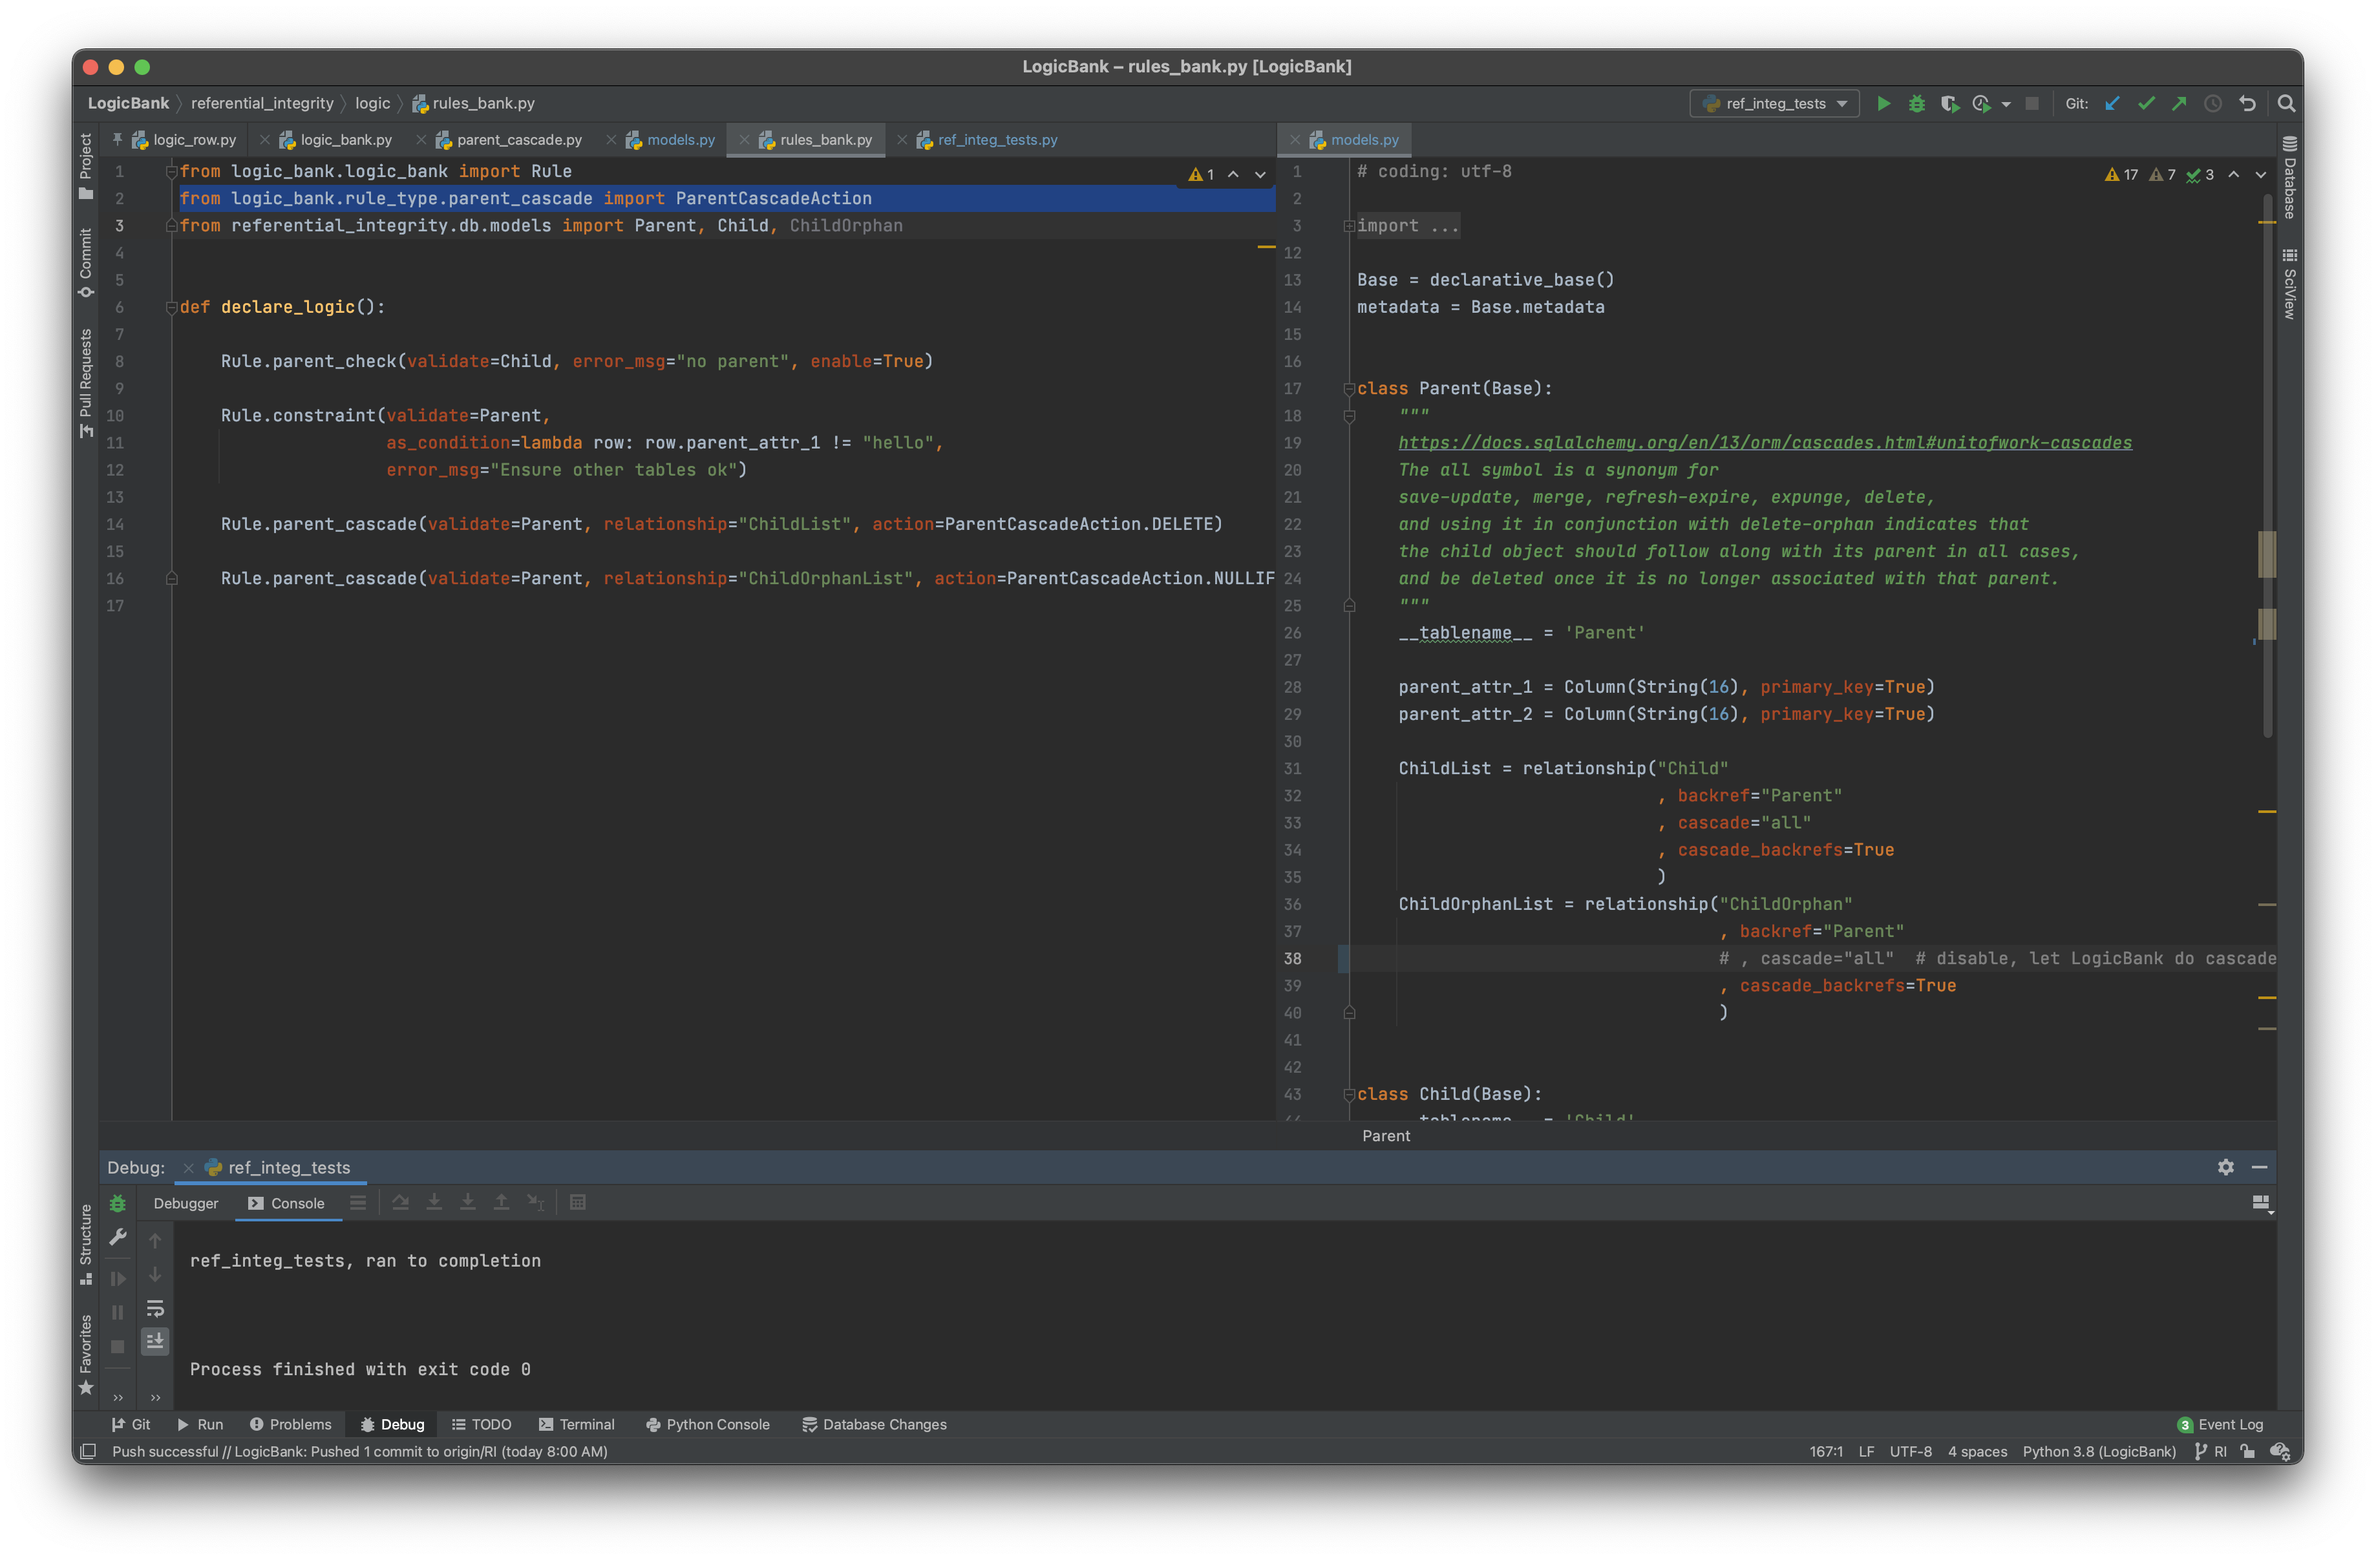
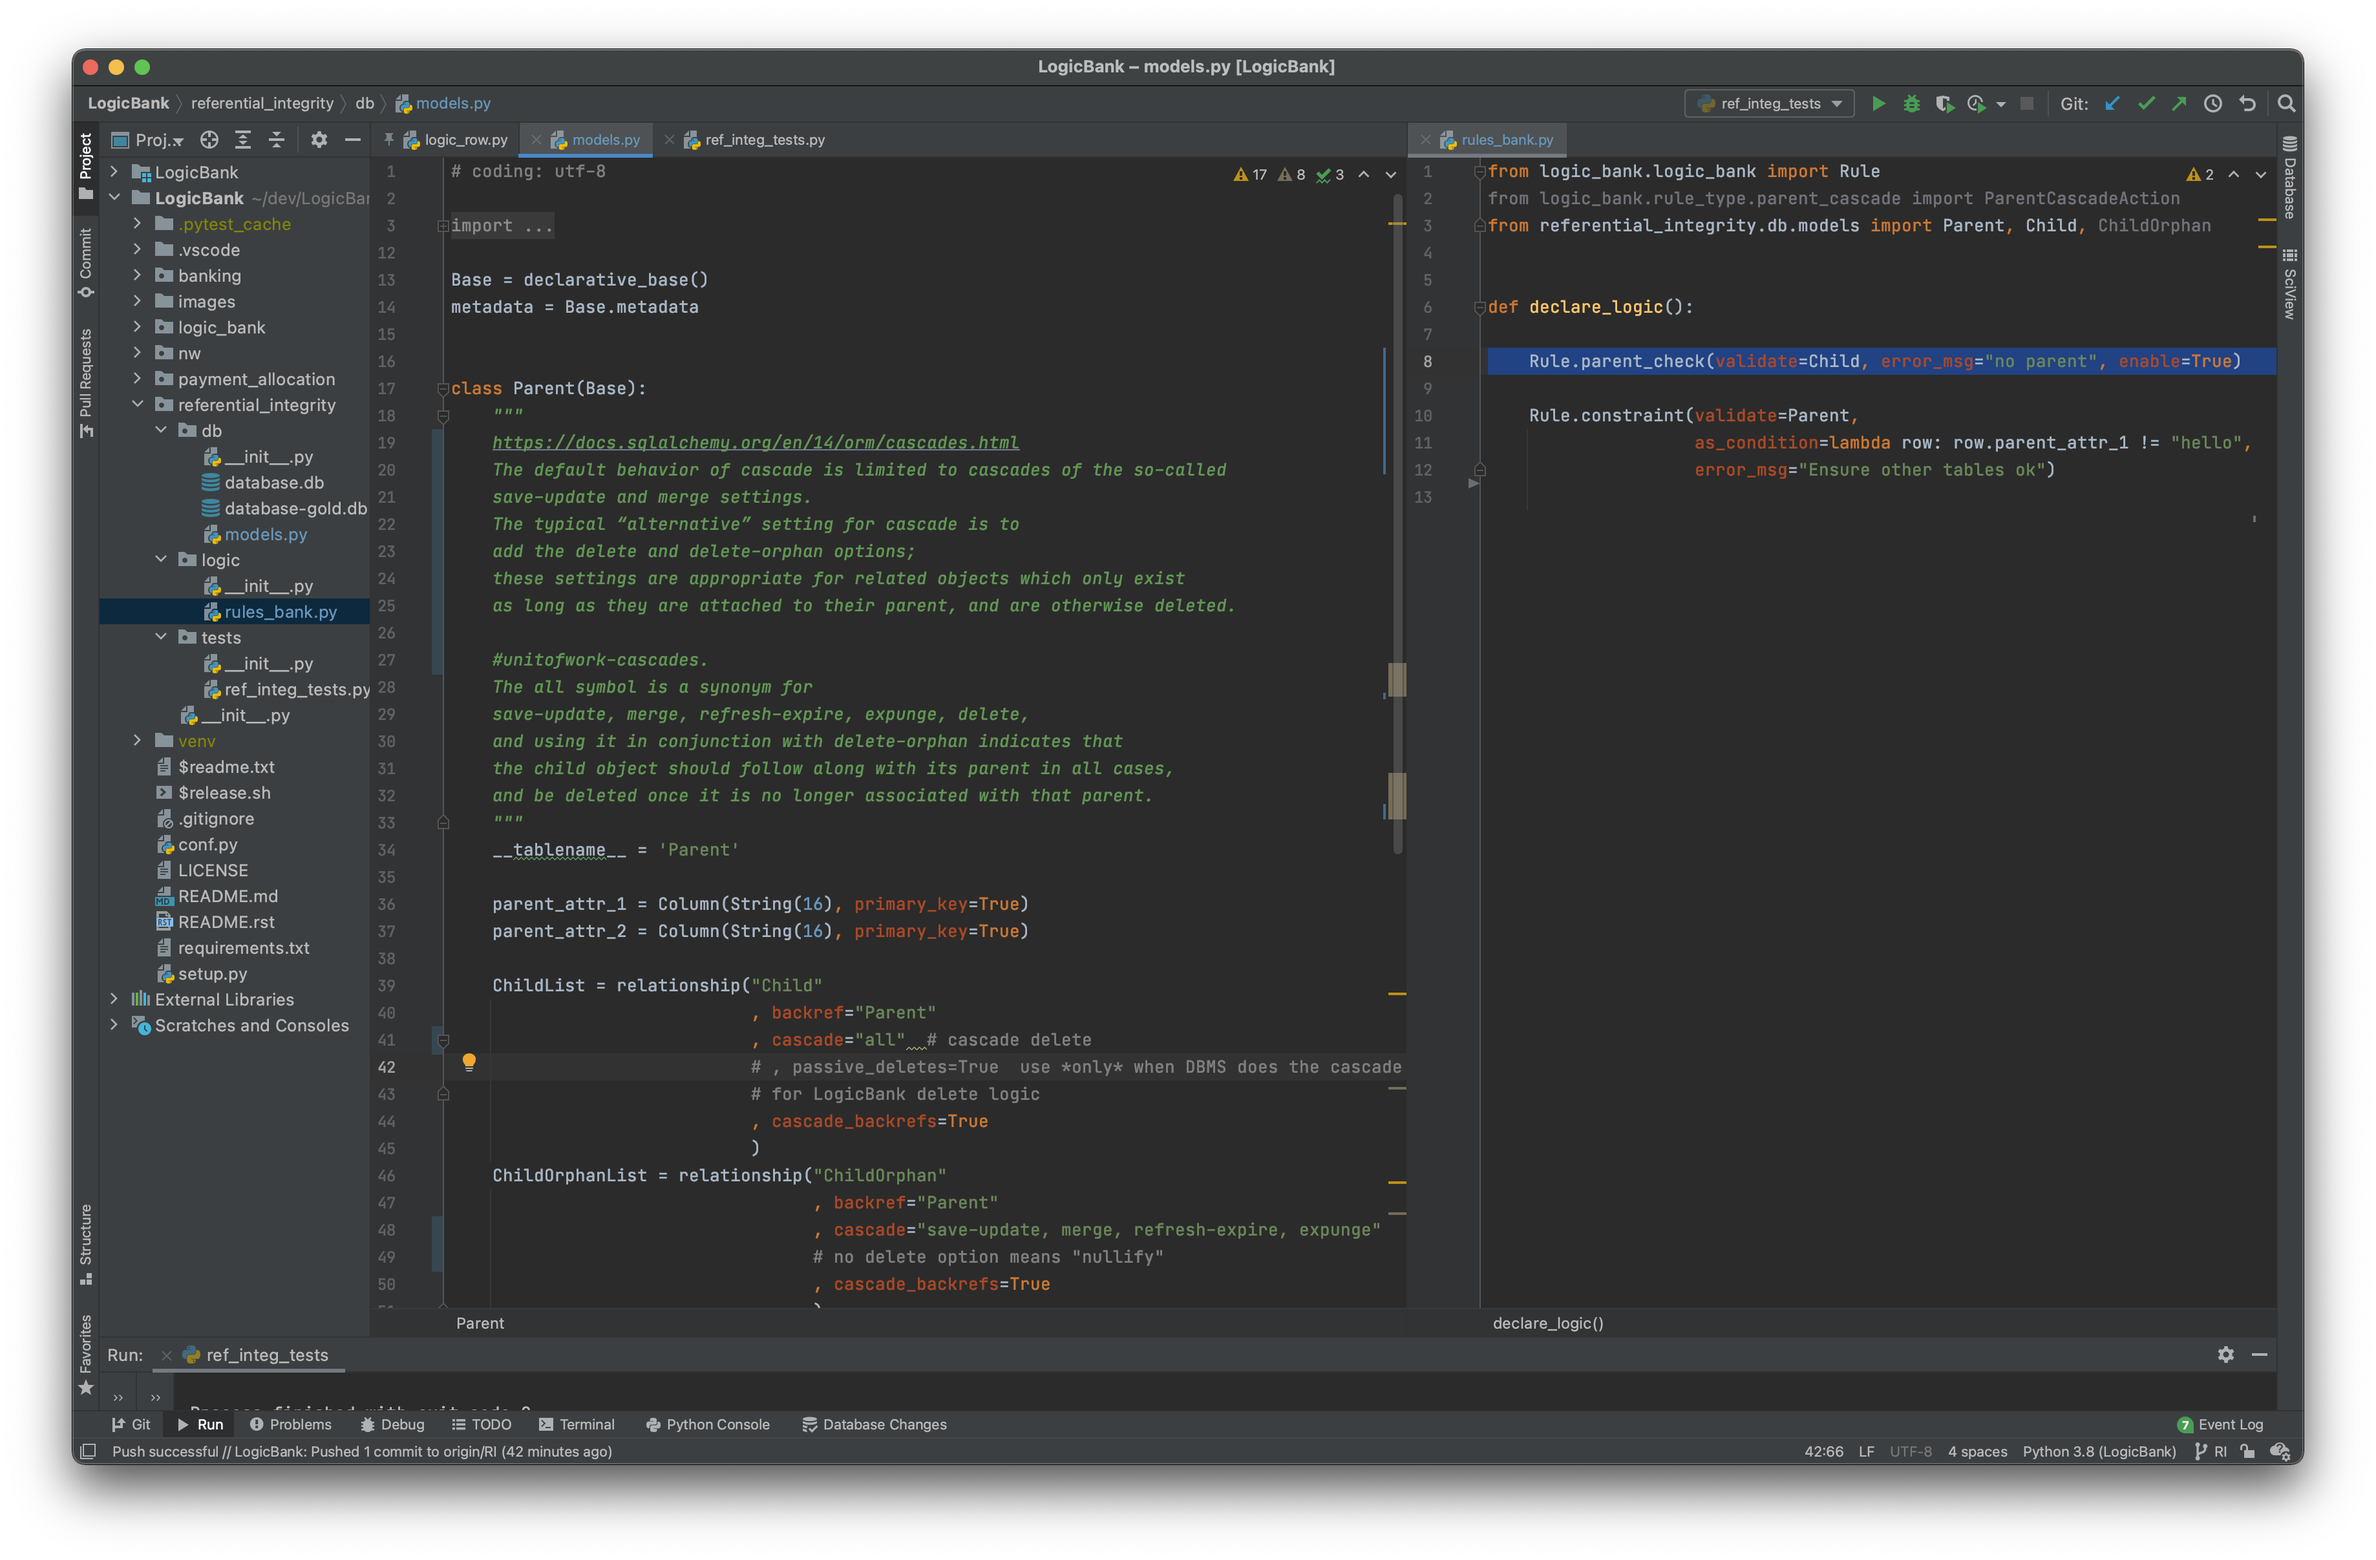
prelim doc of ri-settings

diff --git a/referential_integrity/db/models.py b/referential_integrity/db/models.py
@@ -16,7 +16,15 @@ metadata = Base.metadata
 
 class Parent(Base):
     """
-    https://docs.sqlalchemy.org/en/13/orm/cascades.html#unitofwork-cascades
+    https://docs.sqlalchemy.org/en/14/orm/cascades.html
+    The default behavior of cascade is limited to cascades of the so-called
+    save-update and merge settings.
+    The typical “alternative” setting for cascade is to
+    add the delete and delete-orphan options;
+    these settings are appropriate for related objects which only exist
+    as long as they are attached to their parent, and are otherwise deleted.
+
+    #unitofwork-cascades.
     The all symbol is a synonym for
     save-update, merge, refresh-expire, expunge, delete,
     and using it in conjunction with delete-orphan indicates that
@@ -30,14 +38,15 @@ class Parent(Base):
 
     ChildList = relationship("Child"
                              , backref="Parent"
-                             , cascade="delete"  # cascade delete
+                             , cascade="all"  # cascade delete
                              # , passive_deletes=True  use *only* when DBMS does the cascade delete
                              # for LogicBank delete logic
                              , cascade_backrefs=True
                              )
     ChildOrphanList = relationship("ChildOrphan"
                                    , backref="Parent"
-                                   # cascade no cascade option means "nullify"
+                                   , cascade="save-update, merge, refresh-expire, expunge"
+                                   # no delete option means "nullify"
                                    , cascade_backrefs=True
                                    )
 

diff --git a/referential_integrity/logic/rules_bank.py b/referential_integrity/logic/rules_bank.py
@@ -10,7 +10,3 @@ def declare_logic():
     Rule.constraint(validate=Parent,
                     as_condition=lambda row: row.parent_attr_1 != "hello",
                     error_msg="Ensure other tables ok")
-
-    Rule.parent_cascade(validate=Parent, relationship="ChildList", action=ParentCascadeAction.DELETE)
-
-    Rule.parent_cascade(validate=Parent, relationship="ChildOrphanList", action=ParentCascadeAction.NULLIFY)
